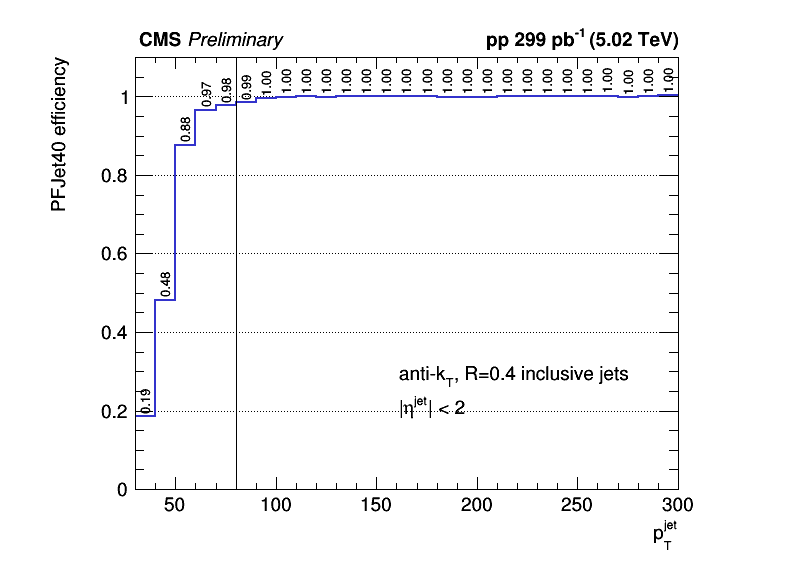
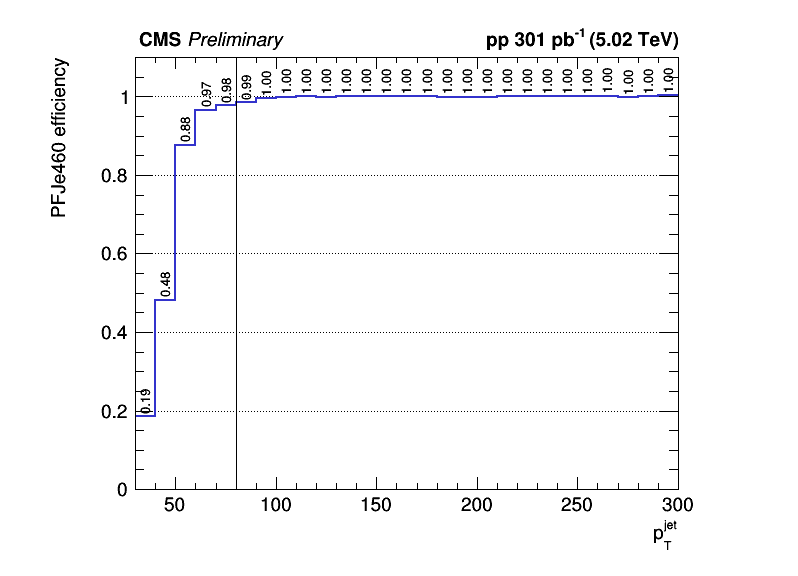
trigger efficiency for pf triggers

diff --git a/myMacros/C106X/draw_trigger_eff.C b/myMacros/C106X/draw_trigger_eff.C
@@ -2,14 +2,21 @@
 
 void draw_trigger_eff()
 {
+    // PF PRESCALES
+    double prescale_pf60 = 6.3534438;
     double prescale_pf40 = 33.917210;
     double prescale_pf30 = 153.12145;
+
+    // CALOJET PRESCALES
+    // double prescale_calo40 = 29.1544;
+    // double prescale_calo30 = 152.29134;
 
     Float_t text_size = 20.;
     gStyle->SetTextSize(text_size);
     gStyle->SetLegendTextSize(text_size);
     gStyle->SetLabelSize(text_size, "XYZ");
     gStyle->SetTitleSize(text_size, "XYZ");
+    gStyle->SetPaintTextFormat(".2f");
 
     // Load LowEGJet
     TFile *fin_LowEGJet_w30 = new TFile("histos/LowEGJet_PF30and40and60_aggrTMVA_inclusive_trg_eff.root");
@@ -21,7 +28,7 @@ void draw_trigger_eff()
     TH1D *h_lower = (TH1D *) fin_LowEGJet->Get("h_lower"); // PFJet40
 
     // Load HighEGJet
-    TFile *fin_HighEGJet = new TFile("histos/HighEGJet_PF80and100_v2_aggrTMVA_inclusive_trg_eff.root");
+    TFile *fin_HighEGJet = new TFile("histos/HighEGJet_PF80and100_aggrTMVA_inclusive_trg_eff.root");
     TH1D *h_high = (TH1D *) fin_HighEGJet->Get("h_high"); // PFJet80 and PFJet100
 
     for (auto h : {
@@ -32,6 +39,7 @@ void draw_trigger_eff()
         h_high
     }) {
         h->GetXaxis()->SetRangeUser(30,300);
+        h->Rebin(2);
     }
 
     // Combine 40+60+80+100
@@ -44,9 +52,12 @@ void draw_trigger_eff()
     h_low->SetFillStyle(1001);
     h_low->SetFillColor(kMagenta-9);
 
-    TH1D *h40and60and80and100 = (TH1D *) h_high->Clone("h60and80");
+    TH1D *h40and60and80and100 = (TH1D *) h_high->Clone("h40and60and80and100");
     h40and60and80and100->Add(h_low);
     h40and60and80and100->Add(h_lower_withPrescale); 
+
+    // h40and60and80and100->GetXaxis()->SetRangeUser(100,120);
+    // std::cout << h40and60and80and100->Integral() << std::endl;
 
     h_high->SetFillStyle(1001);
     h_high->SetFillColor(kGreen-3);
@@ -68,6 +79,10 @@ void draw_trigger_eff()
     h30and40and60and80and100->Add(h_low_w30);
     h30and40and60and80and100->Add(h_lower_w30_withPrescale);
 
+    // h30and40and60and80and100->GetXaxis()->SetRangeUser(100,120);
+    // std::cout << h30and40and60and80and100->Integral() << std::endl;
+
+
     h_low_w30->SetFillStyle(1001);
     h_low_w30->SetFillColor(kMagenta-9);
 
@@ -78,53 +93,85 @@ void draw_trigger_eff()
     h30and40and60and80and100_stack->Add(h_high);
 
     // // Calculate trigger efficiency
+    // h40and60and80and100->Rebin(2);
+    // h30and40and60and80and100->Rebin(2);
+
     TH1D *h_eff = (TH1D *) h40and60and80and100->Clone("h_eff");
     h_eff->Divide(h30and40and60and80and100);
     h_eff->GetXaxis()->SetTitle("p_{T}^{jet}");
-    h_eff->GetYaxis()->SetTitle("PFJet40 efficiency");
+    h_eff->GetYaxis()->SetTitle("PFJe460 efficiency");
     h_eff->SetLineWidth(2);
     h_eff->SetLineColor(kBlue-3);
 
     h_eff->GetYaxis()->SetRangeUser(0., 1.1);
+    h_eff->SetMarkerSize(700);
 
     // // Make legends
-    TLegend *leg_40and60and80and100 = new TLegend(0.5, 0.7, 0.85, 0.9);
+    TLegend *leg_40and60and80and100 = new TLegend(0.35, 0.7, 0.85, 0.85);
+    leg_40and60and80and100->SetFillStyle(0);
+    leg_40and60and80and100->SetMargin(0.1);
+    leg_40and60and80and100->AddEntry(h40and60and80and100, "Combined", "pe1");
     leg_40and60and80and100->AddEntry(h_high, "80 OR 100", "f");
     leg_40and60and80and100->AddEntry(h_low, "60 AND !80 AND !100", "f");
     leg_40and60and80and100->AddEntry(h_lower, "40 AND !60 AND !80 AND !100", "f");
 
-    TLegend *leg_30and40and60and80and100 = new TLegend(0.4, 0.7, 0.85, 0.9);
+    TLegend *leg_30and40and60and80and100 = new TLegend(0.3, 0.7, 0.85, 0.85);
+    leg_30and40and60and80and100->SetFillStyle(0);
+    leg_30and40and60and80and100->SetMargin(0.1);
+    leg_30and40and60and80and100->AddEntry(h30and40and60and80and100, "Combined", "pe1");
     leg_30and40and60and80and100->AddEntry(h_high, "80 OR 100", "f");
     leg_30and40and60and80and100->AddEntry(h_low_w30, "(40 OR 60) AND !80 AND !100", "f");
     leg_30and40and60and80and100->AddEntry(h_lower_w30_withPrescale, "30 AND !40 AND !60 AND !80 AND !100", "f");
     
     // Draw 
     TCanvas *c_40and60and80and100 = new TCanvas("c_40and60and80and100", "Combination 40,60,80 and 100", 800, 600);
-    h40and60and80and100_stack->Draw("hist");
-    // h40and60and80and100->Draw("pe1 same");
+    h40and60and80and100->GetXaxis()->SetRangeUser(30, 300);
+    h40and60and80and100->Draw("pe1 same");
+    h40and60and80and100_stack->Draw("hist same");
+    h40and60and80and100->Draw("pe1 same");
     leg_40and60and80and100->Draw();
     c_40and60and80and100->SetLogy();
     drawHeader();
+    // TLatex *jet_info = new TLatex;
+    // jet_info->SetNDC();
+    // jet_info->DrawLatex(0.5, 0.58, "anti-k_{T}, R=0.4 inclusive jets");
+    // jet_info->DrawLatex(0.5, 0.52, "|#eta^{jet}| < 2");
+    // jet_info->Draw();
     c_40and60and80and100->Draw();
     h40and60and80and100_stack->GetXaxis()->SetRangeUser(30,300);
-    // c_40and60and80and100->Print("plots_an/jtpt_spectrum_40and60and80and100.png");
+    c_40and60and80and100->Print("plots_an/jtpt_spectrum_pf40to100.png");
 
     TCanvas *c_30and40and60and80and100 = new TCanvas("c_30and40and60and80and100", "Combination 30, 40, 60, 80 and 100", 800, 600);
-    h30and40and60and80and100_stack->Draw("hist");
+    h30and40and60and80and100->GetXaxis()->SetRangeUser(30,300);
+    h30and40and60and80and100->Draw("pe1 same");
+    h30and40and60and80and100_stack->Draw("hist same");
+    h30and40and60and80and100->Draw("pe1 same");
     leg_30and40and60and80and100->Draw();
     c_30and40and60and80and100->SetLogy();
     drawHeader();
+    // TLatex *jet_info = new TLatex;
+    // jet_info->SetNDC();
+    // jet_info->DrawLatex(0.5, 0.58, "anti-k_{T}, R=0.4 inclusive jets");
+    // jet_info->DrawLatex(0.5, 0.52, "|#eta^{jet}| < 2");
+    // jet_info->Draw();
     c_30and40and60and80and100->Draw();
     h30and40and60and80and100_stack->GetXaxis()->SetRangeUser(30,300);
-    // c_40and60and80->Print("plots_an/jtpt_spectrum_40and60and80.png");
+    c_30and40and60and80and100->Print("plots_an/jtpt_spectrum_pf30to100.png");
 
-    TCanvas *c_eff = new TCanvas("c_eff", "Trigger efficiency of PFJet40", 800, 600);
-    h_eff->Draw("hist");
+    TCanvas *c_eff = new TCanvas("c_eff", "Trigger efficiency of PFJet60", 800, 600);
+    h_eff->GetXaxis()->SetRangeUser(30,300);
+    h_eff->Draw("hist text");
+
+    // TLatex *jet_info = new TLatex;
+    // jet_info->SetNDC();
+    // jet_info->DrawLatex(0.5, 0.34, "anti-k_{T}, R=0.4 inclusive jets");
+    // jet_info->DrawLatex(0.5, 0.28, "|#eta^{jet}| < 2");
+    // jet_info->Draw();
 
     TLine *line = new TLine(80., 0., 80., 1.1);
     line->Draw();
+    c_eff->SetGridy();
     drawHeader();
     c_eff->Draw();
-    // c_eff->SetLogy();
-    // c_eff->Print("plots_an/calojet60_efficiency.png");
+    c_eff->Print("plots_an/pfjet40_efficiency.png");
 }
